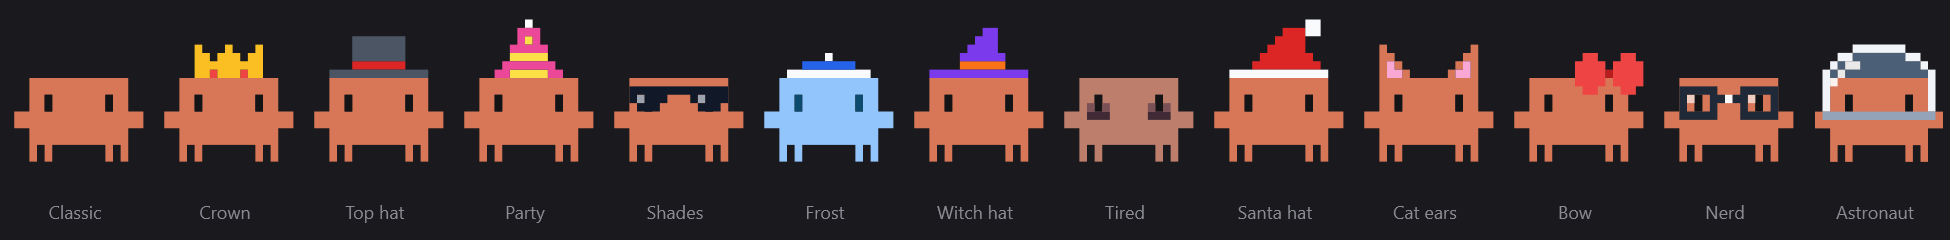
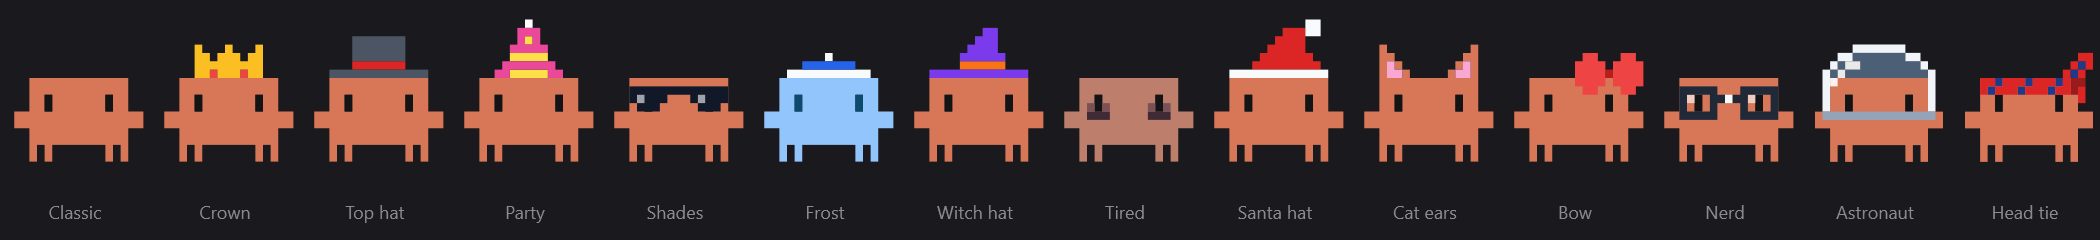
Head tie skin for Clawd, version 1.13.1

diff --git a/CHANGELOG.md b/CHANGELOG.md
@@ -1,5 +1,10 @@
 # Changelog
 
+## 1.13.1
+
+- **Head tie skin** for Clawd: a striped tie knotted round his head, its end
+  sticking up.
+
 ## 1.13.0
 
 - **Space theme** (Settings → Look), after the one in
